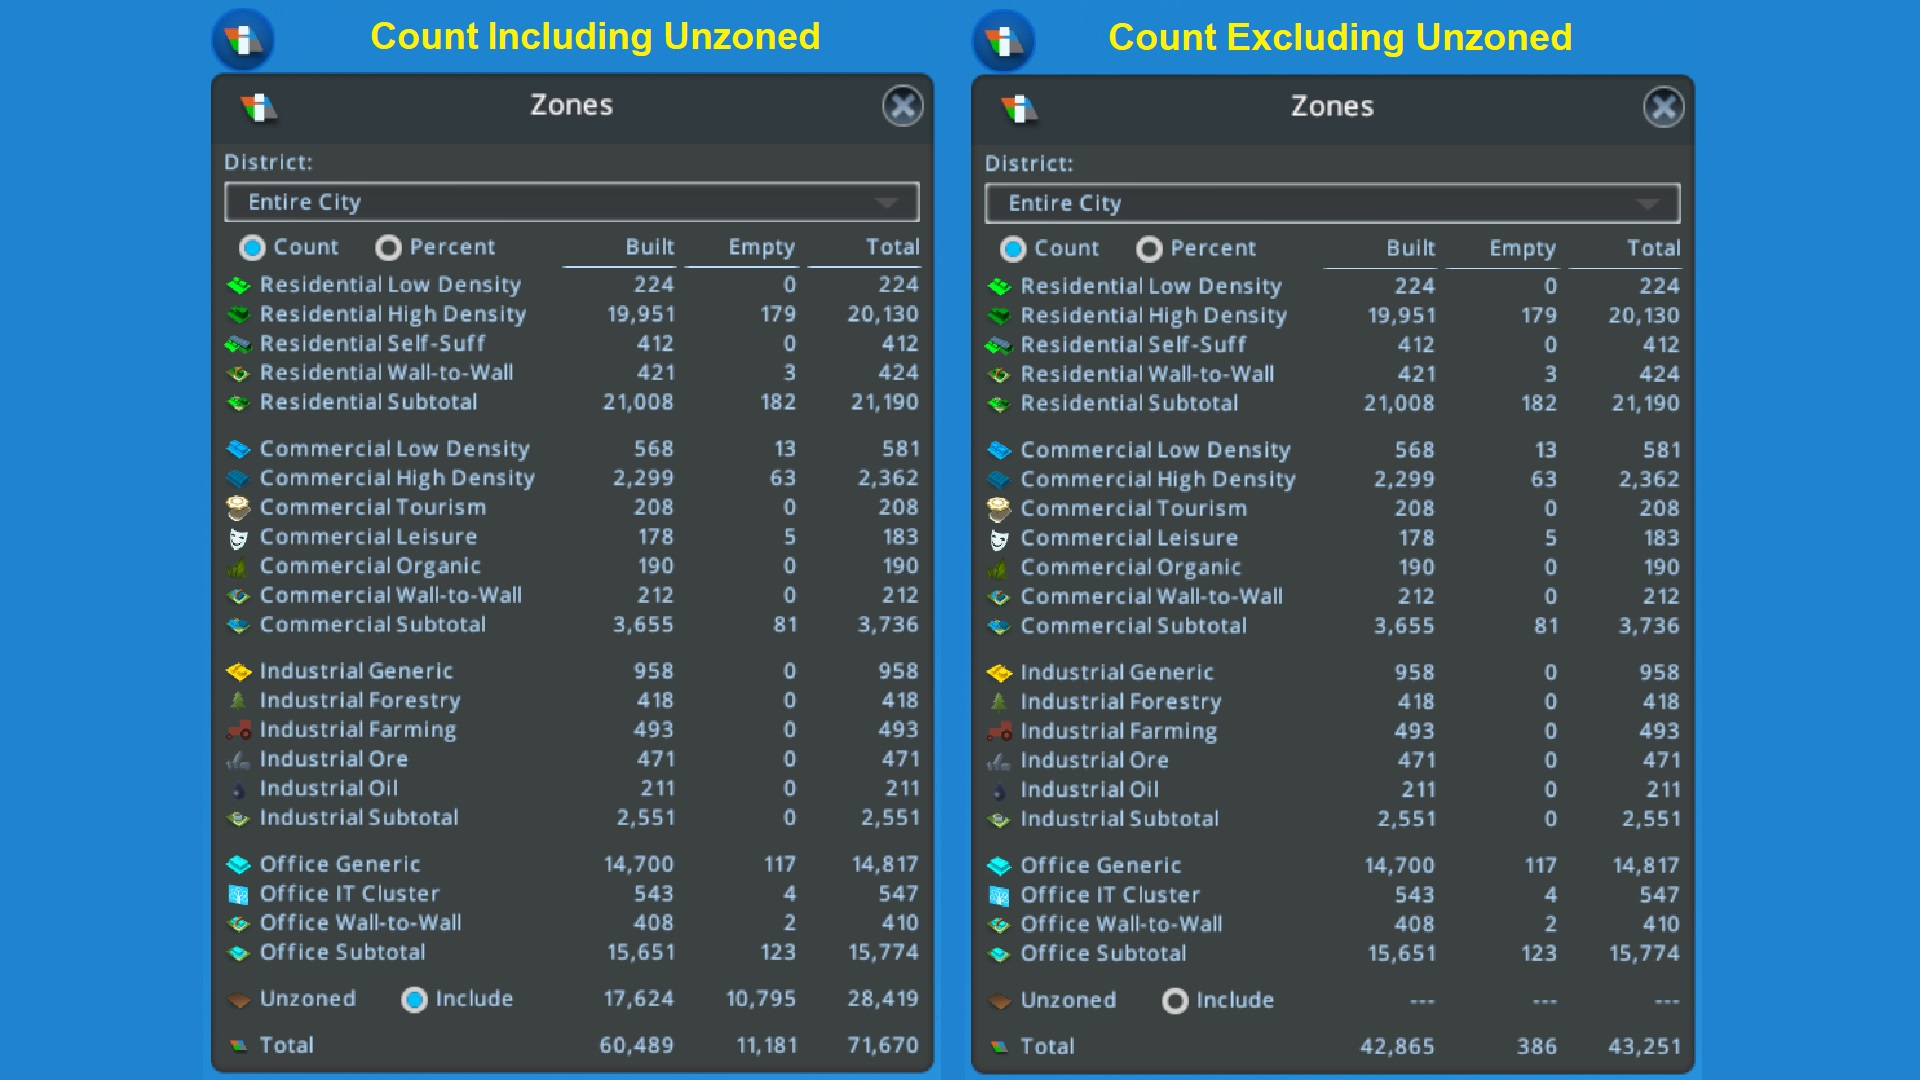
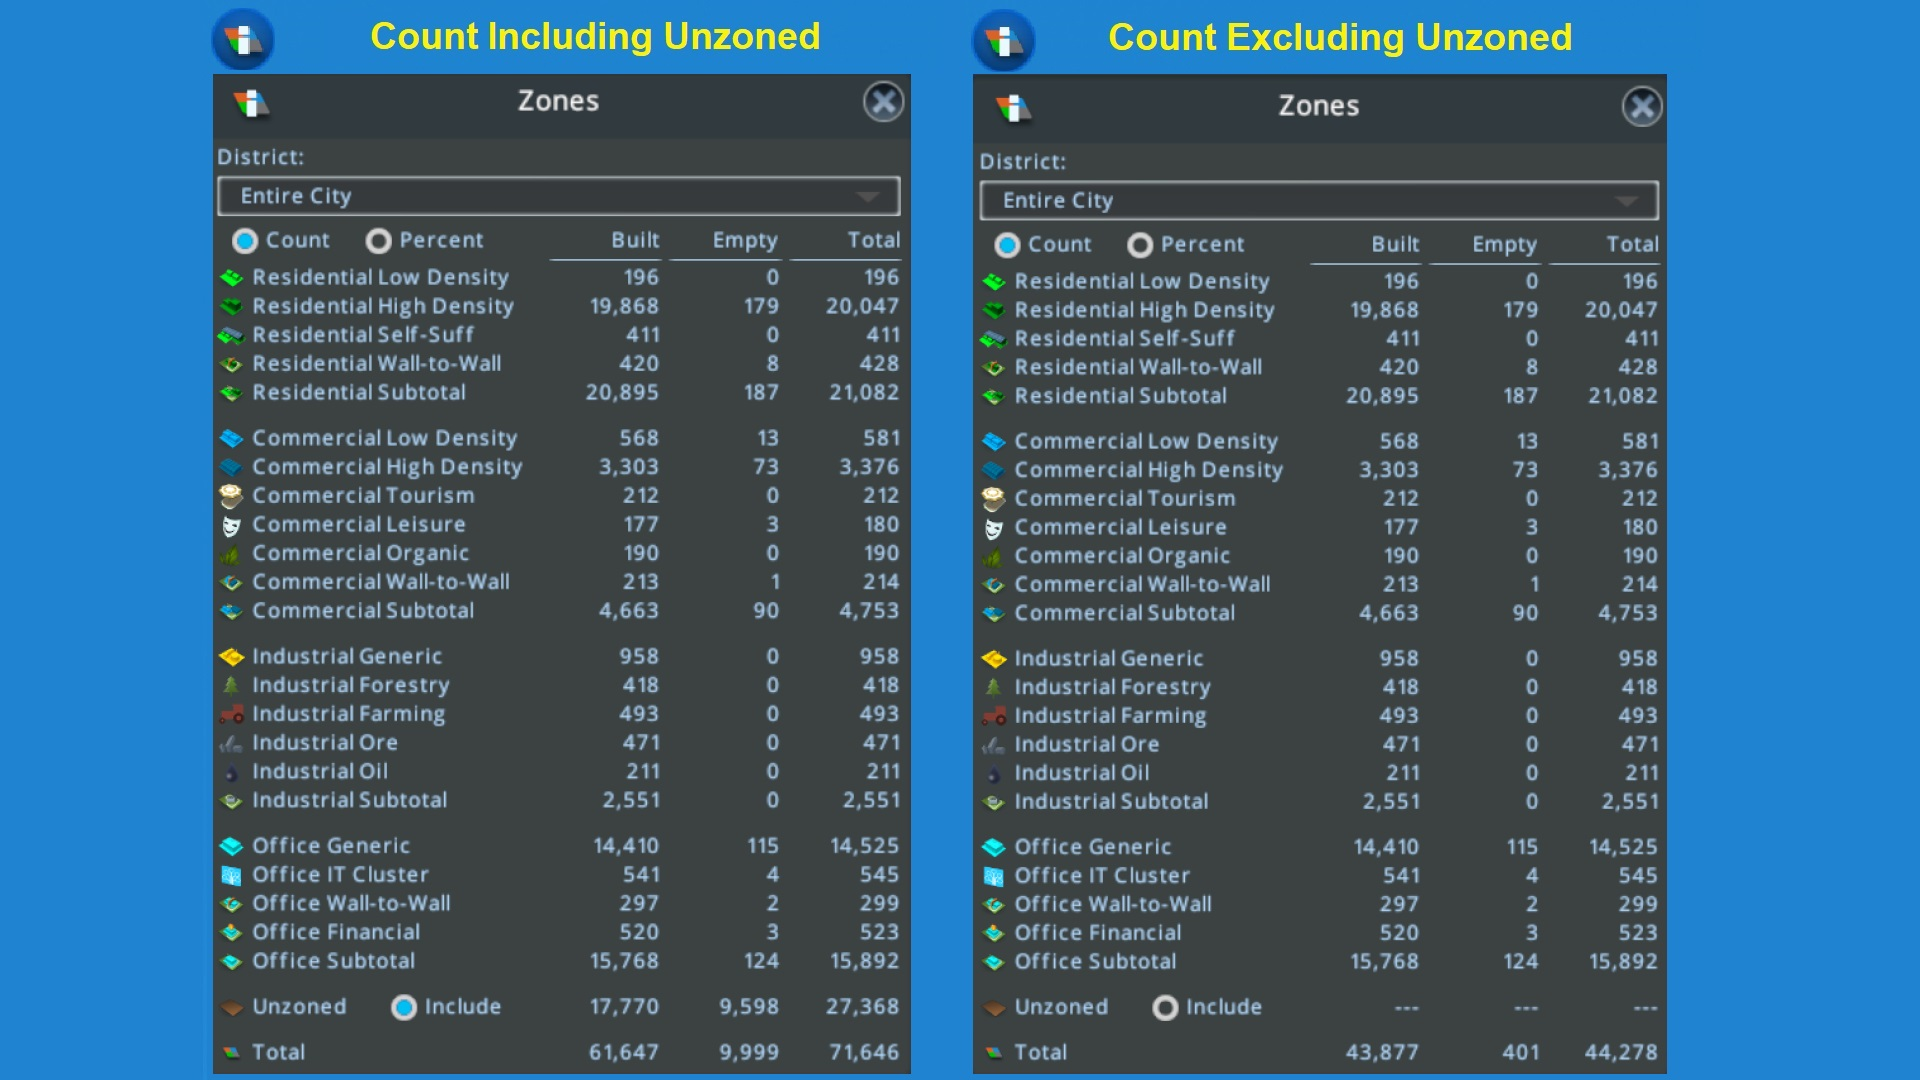
Version 1.8

diff --git a/ZoneInfoPanel.cs b/ZoneInfoPanel.cs
@@ -48,6 +48,7 @@ namespace ZoneInfo
             OfficeGeneric,
             OfficeITCluster,
             OfficelWallToWall,
+            OfficeFinancial,
             OfficeSubtotal,
 
             Unzoned,
@@ -275,49 +276,52 @@ namespace ZoneInfo
                 }
 
                 // get DLC flags
-                bool dlcBaseGame         = true;
-                bool dlcAfterDark        = SteamHelper.IsDLCOwned(SteamHelper.DLC.AfterDarkDLC);
-                bool dlcGreenCities      = SteamHelper.IsDLCOwned(SteamHelper.DLC.GreenCitiesDLC);
-                bool dlcPlazasPromenades = SteamHelper.IsDLCOwned(SteamHelper.DLC.PlazasAndPromenadesDLC);
+                bool dlcBaseGame           = true;
+                bool dlcAfterDark          = SteamHelper.IsDLCOwned(SteamHelper.DLC.AfterDarkDLC);
+                bool dlcGreenCities        = SteamHelper.IsDLCOwned(SteamHelper.DLC.GreenCitiesDLC);
+                bool dlcPlazasPromenades   = SteamHelper.IsDLCOwned(SteamHelper.DLC.PlazasAndPromenadesDLC);
+                bool dlcFinancialDistricts = SteamHelper.IsDLCOwned(SteamHelper.DLC.FinancialDistrictsDLC);
 
                 // create each UI square count row based on DLC
                 top += 5f;
                 const float SectionSpacing = 10f;
-                if (dlcBaseGame        ) { if (!CreateUISquareCount(Zone.ResidentialGenericLow,  "ResidentialLow",        "Residential Low Density",  zoneAtlas, ref top)) return; }
-                if (dlcBaseGame        ) { if (!CreateUISquareCount(Zone.ResidentialGenericHigh, "ResidentialHigh",       "Residential High Density", zoneAtlas, ref top)) return; }
-                if (dlcGreenCities     ) { if (!CreateUISquareCount(Zone.ResidentialSelfSuff,    "ResidentialSelfSuff",   "Residential Self-Suff",    zoneAtlas, ref top)) return; }
-                if (dlcPlazasPromenades) { if (!CreateUISquareCount(Zone.ResidentialWallToWall,  "ResidentialWallToWall", "Residential Wall-to-Wall", zoneAtlas, ref top)) return; }
-                if (dlcBaseGame        ) { if (!CreateUISquareCount(Zone.ResidentialSubtotal,    "ResidentialSubTotal",   "Residential Subtotal",     zoneAtlas, ref top)) return; }
+                if (dlcBaseGame          ) { if (!CreateUISquareCount(Zone.ResidentialGenericLow,  "ResidentialLow",        "Residential Low Density",  zoneAtlas, ref top)) return; }
+                if (dlcBaseGame          ) { if (!CreateUISquareCount(Zone.ResidentialGenericHigh, "ResidentialHigh",       "Residential High Density", zoneAtlas, ref top)) return; }
+                if (dlcGreenCities       ) { if (!CreateUISquareCount(Zone.ResidentialSelfSuff,    "ResidentialSelfSuff",   "Residential Self-Suff",    zoneAtlas, ref top)) return; }
+                if (dlcPlazasPromenades  ) { if (!CreateUISquareCount(Zone.ResidentialWallToWall,  "ResidentialWallToWall", "Residential Wall-to-Wall", zoneAtlas, ref top)) return; }
+                if (dlcBaseGame          ) { if (!CreateUISquareCount(Zone.ResidentialSubtotal,    "ResidentialSubTotal",   "Residential Subtotal",     zoneAtlas, ref top)) return; }
 
                 top += SectionSpacing;
-                if (dlcBaseGame        ) { if (!CreateUISquareCount(Zone.CommercialGenericLow,   "CommercialLow",         "Commercial Low Density",   zoneAtlas, ref top)) return; }
-                if (dlcBaseGame        ) { if (!CreateUISquareCount(Zone.CommercialGenericHigh,  "CommercialHigh",        "Commercial High Density",  zoneAtlas, ref top)) return; }
-                if (dlcAfterDark       ) { if (!CreateUISquareCount(Zone.CommercialTourism,      "CommercialTourism",     "Commercial Tourism",       zoneAtlas, ref top)) return; }
-                if (dlcAfterDark       ) { if (!CreateUISquareCount(Zone.CommercialLeisure,      "CommercialLeisure",     "Commercial Leisure",       zoneAtlas, ref top)) return; }
-                if (dlcGreenCities     ) { if (!CreateUISquareCount(Zone.CommercialOrganic,      "CommercialOrganic",     "Commercial Organic",       zoneAtlas, ref top)) return; }
-                if (dlcPlazasPromenades) { if (!CreateUISquareCount(Zone.CommercialWallToWall,   "CommercialWallToWall",  "Commercial Wall-to-Wall",  zoneAtlas, ref top)) return; }
-                if (dlcBaseGame        ) { if (!CreateUISquareCount(Zone.CommercialSubtotal,     "CommercialSubTotal",    "Commercial Subtotal",      zoneAtlas, ref top)) return; }
+                if (dlcBaseGame          ) { if (!CreateUISquareCount(Zone.CommercialGenericLow,   "CommercialLow",         "Commercial Low Density",   zoneAtlas, ref top)) return; }
+                if (dlcBaseGame          ) { if (!CreateUISquareCount(Zone.CommercialGenericHigh,  "CommercialHigh",        "Commercial High Density",  zoneAtlas, ref top)) return; }
+                if (dlcAfterDark         ) { if (!CreateUISquareCount(Zone.CommercialTourism,      "CommercialTourism",     "Commercial Tourism",       zoneAtlas, ref top)) return; }
+                if (dlcAfterDark         ) { if (!CreateUISquareCount(Zone.CommercialLeisure,      "CommercialLeisure",     "Commercial Leisure",       zoneAtlas, ref top)) return; }
+                if (dlcGreenCities       ) { if (!CreateUISquareCount(Zone.CommercialOrganic,      "CommercialOrganic",     "Commercial Organic",       zoneAtlas, ref top)) return; }
+                if (dlcPlazasPromenades  ) { if (!CreateUISquareCount(Zone.CommercialWallToWall,   "CommercialWallToWall",  "Commercial Wall-to-Wall",  zoneAtlas, ref top)) return; }
+                if (dlcBaseGame          ) { if (!CreateUISquareCount(Zone.CommercialSubtotal,     "CommercialSubTotal",    "Commercial Subtotal",      zoneAtlas, ref top)) return; }
 
                 top += SectionSpacing;
-                if (dlcBaseGame        ) { if (!CreateUISquareCount(Zone.IndustrialGeneric,      "IndustrialGeneric",     "Industrial Generic",       zoneAtlas, ref top)) return; }
-                if (dlcBaseGame        ) { if (!CreateUISquareCount(Zone.IndustrialForestry,     "IndustrialForestry",    "Industrial Forestry",      zoneAtlas, ref top)) return; }
-                if (dlcBaseGame        ) { if (!CreateUISquareCount(Zone.IndustrialFarming,      "IndustrialFarming",     "Industrial Farming",       zoneAtlas, ref top)) return; }
-                if (dlcBaseGame        ) { if (!CreateUISquareCount(Zone.IndustrialOre,          "IndustrialOre",         "Industrial Ore",           zoneAtlas, ref top)) return; }
-                if (dlcBaseGame        ) { if (!CreateUISquareCount(Zone.IndustrialOil,          "IndustrialOil",         "Industrial Oil",           zoneAtlas, ref top)) return; }
-                if (dlcBaseGame        ) { if (!CreateUISquareCount(Zone.IndustrialSubtotal,     "IndustrialSubTotal",    "Industrial Subtotal",      zoneAtlas, ref top)) return; }
+                if (dlcBaseGame          ) { if (!CreateUISquareCount(Zone.IndustrialGeneric,      "IndustrialGeneric",     "Industrial Generic",       zoneAtlas, ref top)) return; }
+                if (dlcBaseGame          ) { if (!CreateUISquareCount(Zone.IndustrialForestry,     "IndustrialForestry",    "Industrial Forestry",      zoneAtlas, ref top)) return; }
+                if (dlcBaseGame          ) { if (!CreateUISquareCount(Zone.IndustrialFarming,      "IndustrialFarming",     "Industrial Farming",       zoneAtlas, ref top)) return; }
+                if (dlcBaseGame          ) { if (!CreateUISquareCount(Zone.IndustrialOre,          "IndustrialOre",         "Industrial Ore",           zoneAtlas, ref top)) return; }
+                if (dlcBaseGame          ) { if (!CreateUISquareCount(Zone.IndustrialOil,          "IndustrialOil",         "Industrial Oil",           zoneAtlas, ref top)) return; }
+                if (dlcBaseGame          ) { if (!CreateUISquareCount(Zone.IndustrialSubtotal,     "IndustrialSubTotal",    "Industrial Subtotal",      zoneAtlas, ref top)) return; }
 
                 top += SectionSpacing;
-                if (dlcBaseGame        ) { if (!CreateUISquareCount(Zone.OfficeGeneric,          "OfficeGeneric",         "Office Generic",           zoneAtlas, ref top)) return; }
-                if (dlcGreenCities     ) { if (!CreateUISquareCount(Zone.OfficeITCluster,        "OfficeITCluster",       "Office IT Cluster",        zoneAtlas, ref top)) return; }
-                if (dlcPlazasPromenades) { if (!CreateUISquareCount(Zone.OfficelWallToWall,      "OfficeWallToWall",      "Office Wall-to-Wall",      zoneAtlas, ref top)) return; }
+                if (dlcBaseGame          ) { if (!CreateUISquareCount(Zone.OfficeGeneric,          "OfficeGeneric",         "Office Generic",           zoneAtlas, ref top)) return; }
+                if (dlcGreenCities       ) { if (!CreateUISquareCount(Zone.OfficeITCluster,        "OfficeITCluster",       "Office IT Cluster",        zoneAtlas, ref top)) return; }
+                if (dlcPlazasPromenades  ) { if (!CreateUISquareCount(Zone.OfficelWallToWall,      "OfficeWallToWall",      "Office Wall-to-Wall",      zoneAtlas, ref top)) return; }
+                if (dlcFinancialDistricts) { if (!CreateUISquareCount(Zone.OfficeFinancial,        "OfficeFinancial",       "Office Financial",         zoneAtlas, ref top)) return; }
                 if (dlcGreenCities ||
-                    dlcPlazasPromenades) { if (!CreateUISquareCount(Zone.OfficeSubtotal,         "OfficeSubTotal",        "Office Subtotal",          zoneAtlas, ref top)) return; }
+                    dlcPlazasPromenades ||
+                    dlcFinancialDistricts) { if (!CreateUISquareCount(Zone.OfficeSubtotal,         "OfficeSubTotal",        "Office Subtotal",          zoneAtlas, ref top)) return; }
 
                 top += SectionSpacing;
-                if (dlcBaseGame        ) { if (!CreateUISquareCount(Zone.Unzoned,                "Unzoned",               "Unzoned",                  zoneAtlas, ref top)) return; }
+                if (dlcBaseGame          ) { if (!CreateUISquareCount(Zone.Unzoned,                "Unzoned",               "Unzoned",                  zoneAtlas, ref top)) return; }
 
                 top += SectionSpacing;
-                if (dlcBaseGame        ) { if (!CreateUISquareCount(Zone.Total,                  "Total",                 "Total",                    zoneAtlas, ref top)) return; }
+                if (dlcBaseGame          ) { if (!CreateUISquareCount(Zone.Total,                  "Total",                 "Total",                    zoneAtlas, ref top)) return; }
 
                 // add the Include Unzoned checkbox, but hidden
                 if (!CreateCheckbox(ref _includeUnzonedCheckbox, ref _includeUnzonedLabel, "Include", _uiSquareCounts[(int)Zone.Unzoned], 110f, 60f)) return;
@@ -881,7 +885,8 @@ namespace ZoneInfo
                                         case ItemClass.Zone.Office:
                                             if      ((specialization & DistrictPolicies.Specialization.Hightech        ) != 0) { countToIncrement = Zone.OfficeITCluster;   }
                                             else if ((specialization & DistrictPolicies.Specialization.OfficeWallToWall) != 0) { countToIncrement = Zone.OfficelWallToWall; }
-                                            else                                                                               { countToIncrement = Zone.OfficeGeneric;   }
+                                            else if ((specialization & DistrictPolicies.Specialization.Financial       ) != 0) { countToIncrement = Zone.OfficeFinancial;   }
+                                            else                                                                               { countToIncrement = Zone.OfficeGeneric;     }
                                             subtotalToIncrement = Zone.OfficeSubtotal;
                                             break;
 
@@ -947,6 +952,7 @@ namespace ZoneInfo
 
                                                         case ItemClass.SubService.OfficeHightech:        countToIncrement = Zone.OfficeITCluster;        subtotalToIncrement = Zone.OfficeSubtotal;      break;
                                                         case ItemClass.SubService.OfficeWallToWall:      countToIncrement = Zone.OfficelWallToWall;      subtotalToIncrement = Zone.OfficeSubtotal;      break;
+                                                        case ItemClass.SubService.OfficeFinancial:       countToIncrement = Zone.OfficeFinancial;        subtotalToIncrement = Zone.OfficeSubtotal;      break;
                                                         case ItemClass.SubService.OfficeGeneric:         countToIncrement = Zone.OfficeGeneric;          subtotalToIncrement = Zone.OfficeSubtotal;      break;
 
                                                         default:
@@ -1295,10 +1301,14 @@ namespace ZoneInfo
                             case Zone.OfficelWallToWall:
                                 showNormal = instance.Unlocked(DistrictPolicies.Policies.OfficeWallToWall);
                                 break;
+                            case Zone.OfficeFinancial:
+                                showNormal = instance.Unlocked(DistrictPolicies.Policies.Financial);
+                                break;
                             case Zone.OfficeSubtotal:
                                 showNormal = instance.Unlocked(ItemClass.Zone.Office) ||
                                              instance.Unlocked(DistrictPolicies.Policies.Hightech) ||
-                                             instance.Unlocked(DistrictPolicies.Policies.OfficeWallToWall);
+                                             instance.Unlocked(DistrictPolicies.Policies.OfficeWallToWall) ||
+                                             instance.Unlocked(DistrictPolicies.Policies.Financial);
                                 break;
 
                             case Zone.Unzoned:

diff --git a/Properties/AssemblyInfo.cs b/Properties/AssemblyInfo.cs
@@ -21,7 +21,7 @@ using System.Runtime.InteropServices;
 // The AssemblyVersion has the format "{Major}.{Minor}.{Build}.{Revision}".
 // The form "{Major}.{Minor}.*" will automatically update the build and revision.
 // The form "{Major}.{Minor}.{Build}.*" will update just the revision.
-[assembly: AssemblyVersion("1.7.*")]
+[assembly: AssemblyVersion("1.8.*")]
 
 // The AssemblyFileVersion is commented out which causes the AssemblyFileVersion to be the same as the AssemblyVersion, as desired.
 //[assembly: AssemblyFileVersion("1.0.0.0")]
